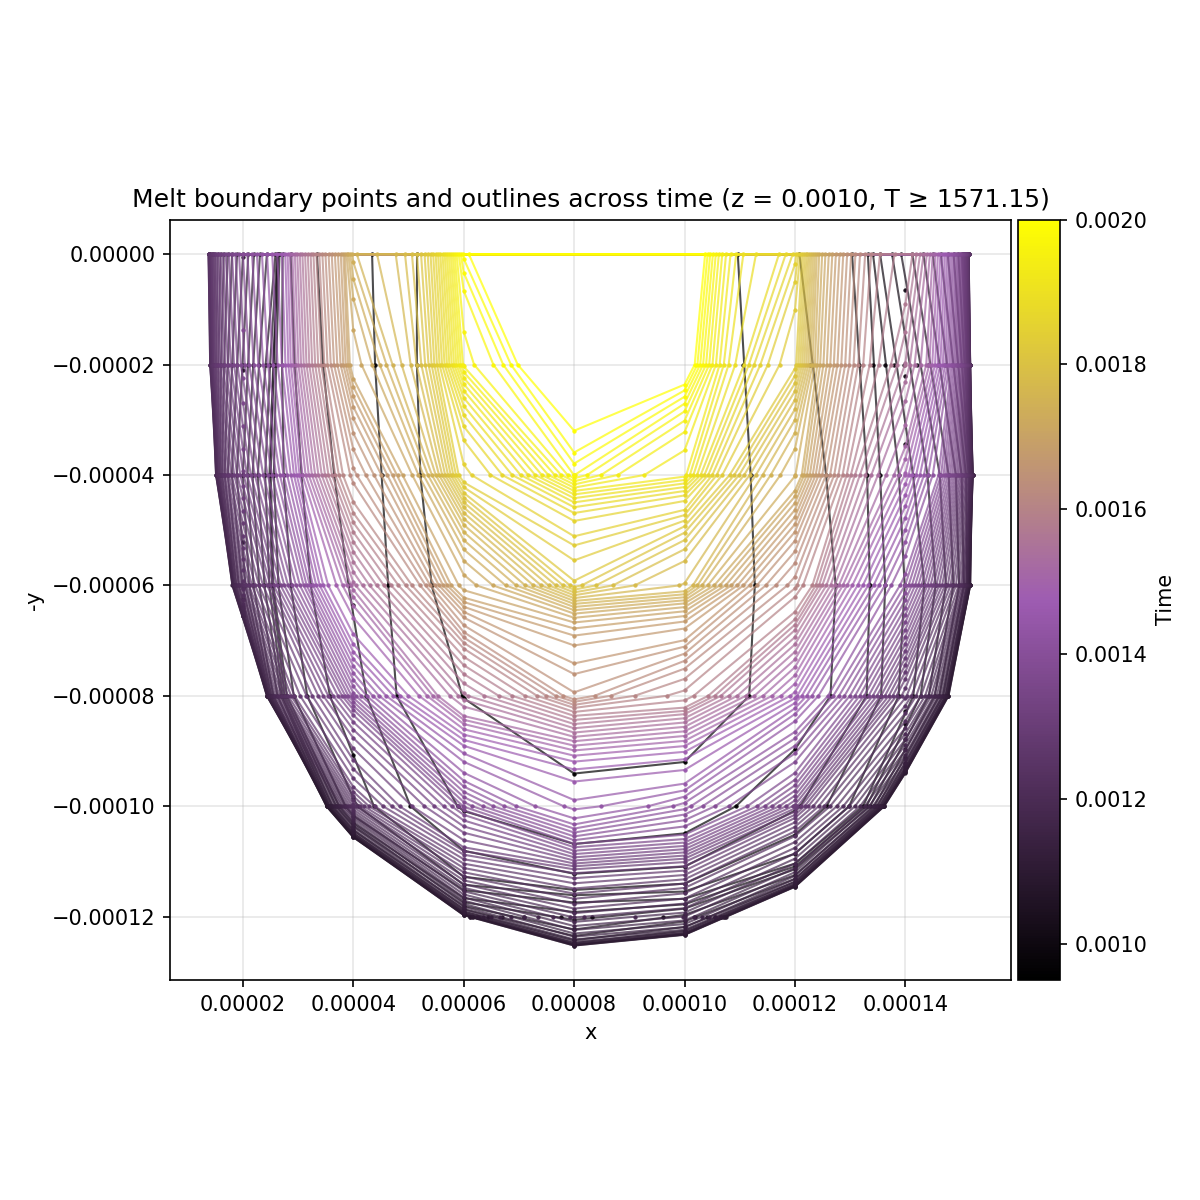
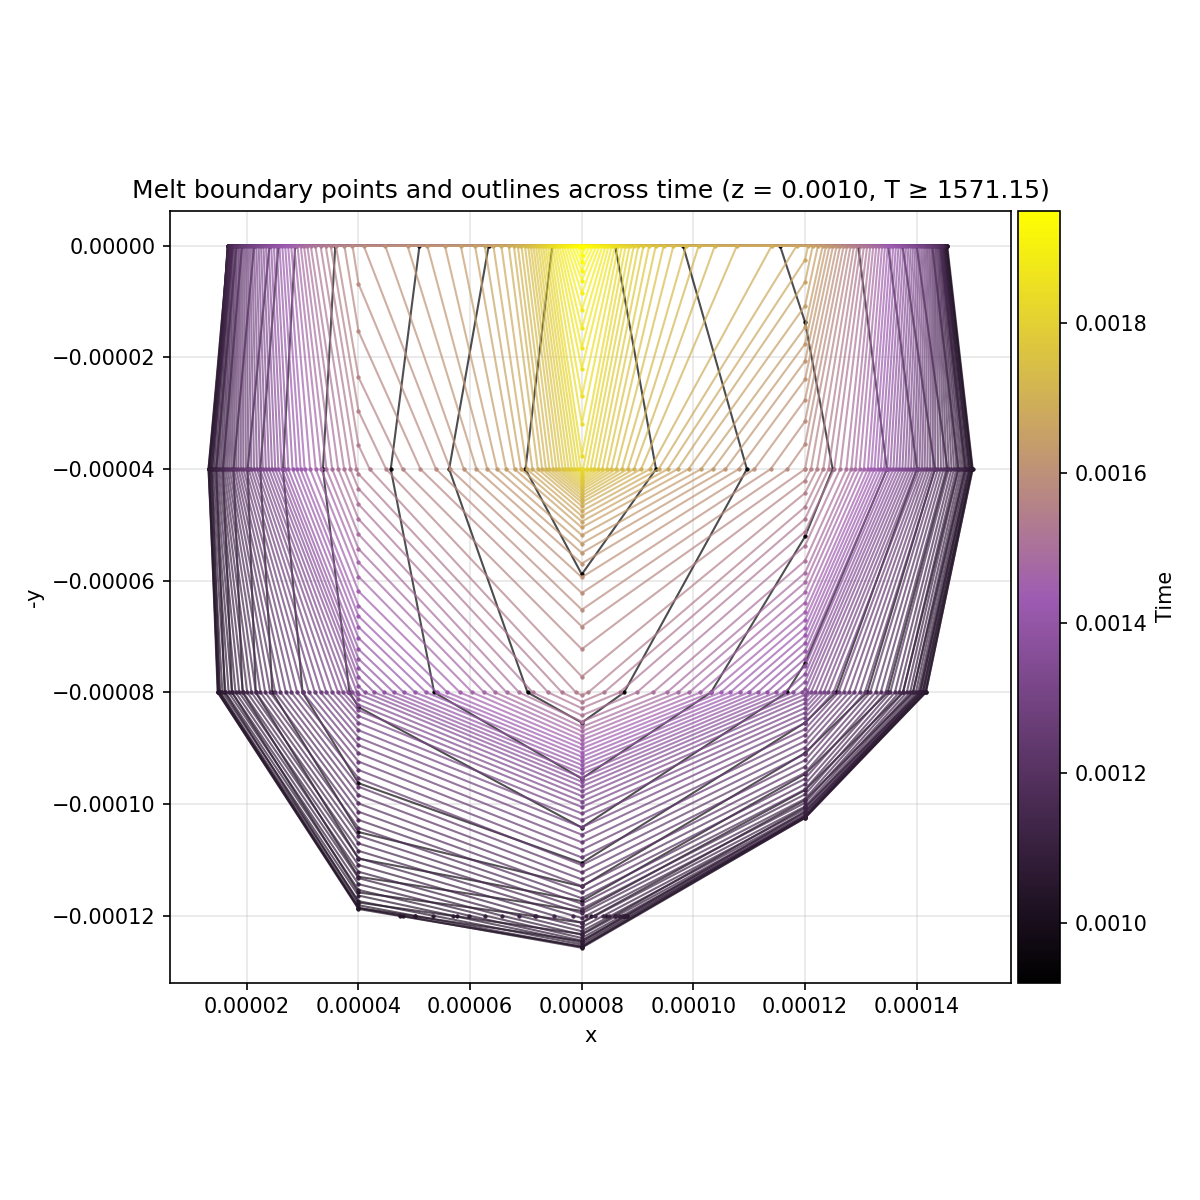
40um calibration

diff --git a/calibration/measure-melt.py b/calibration/measure-melt.py
@@ -103,7 +103,7 @@ def main():
             from scipy.spatial import cKDTree
             tree = cKDTree(pts[:, :2])
             boundary_points = []
-            neighbor_radius = 25e-6
+            neighbor_radius = 45e-6  # for 40um cells
             for i, (pt, temp) in enumerate(zip(pts, T)):
                 for j in tree.query_ball_point(pt[:2], r=neighbor_radius):
                     if j == i:
